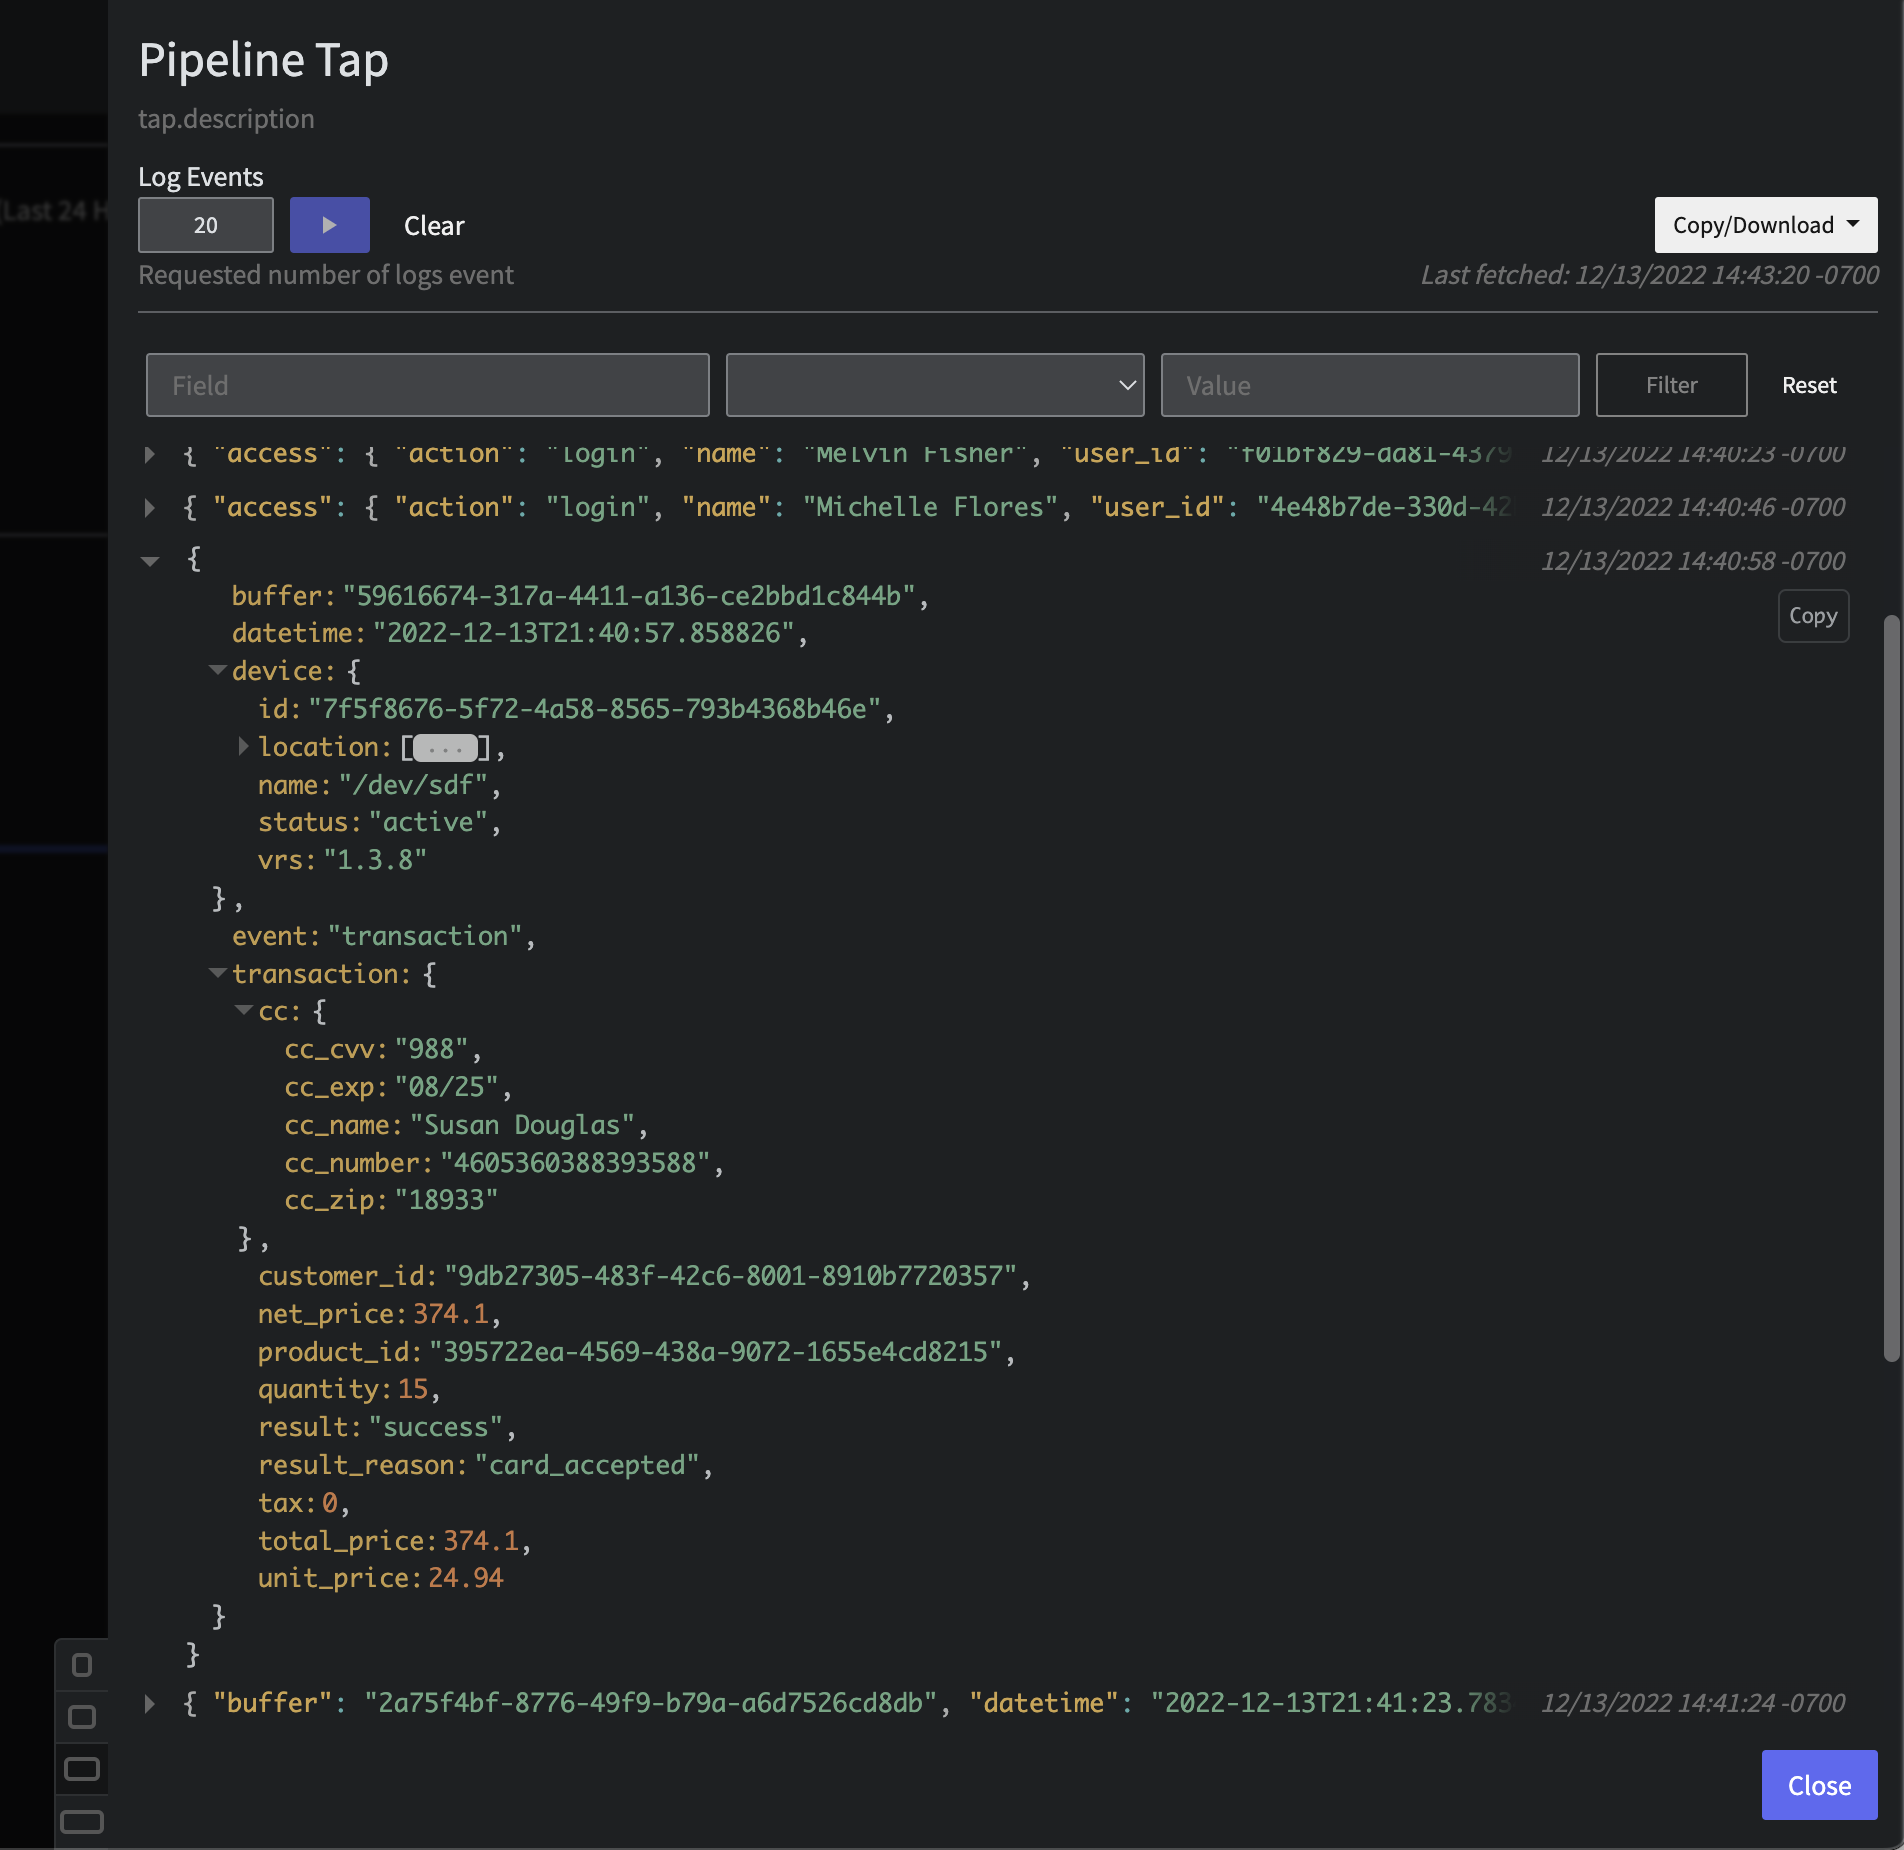
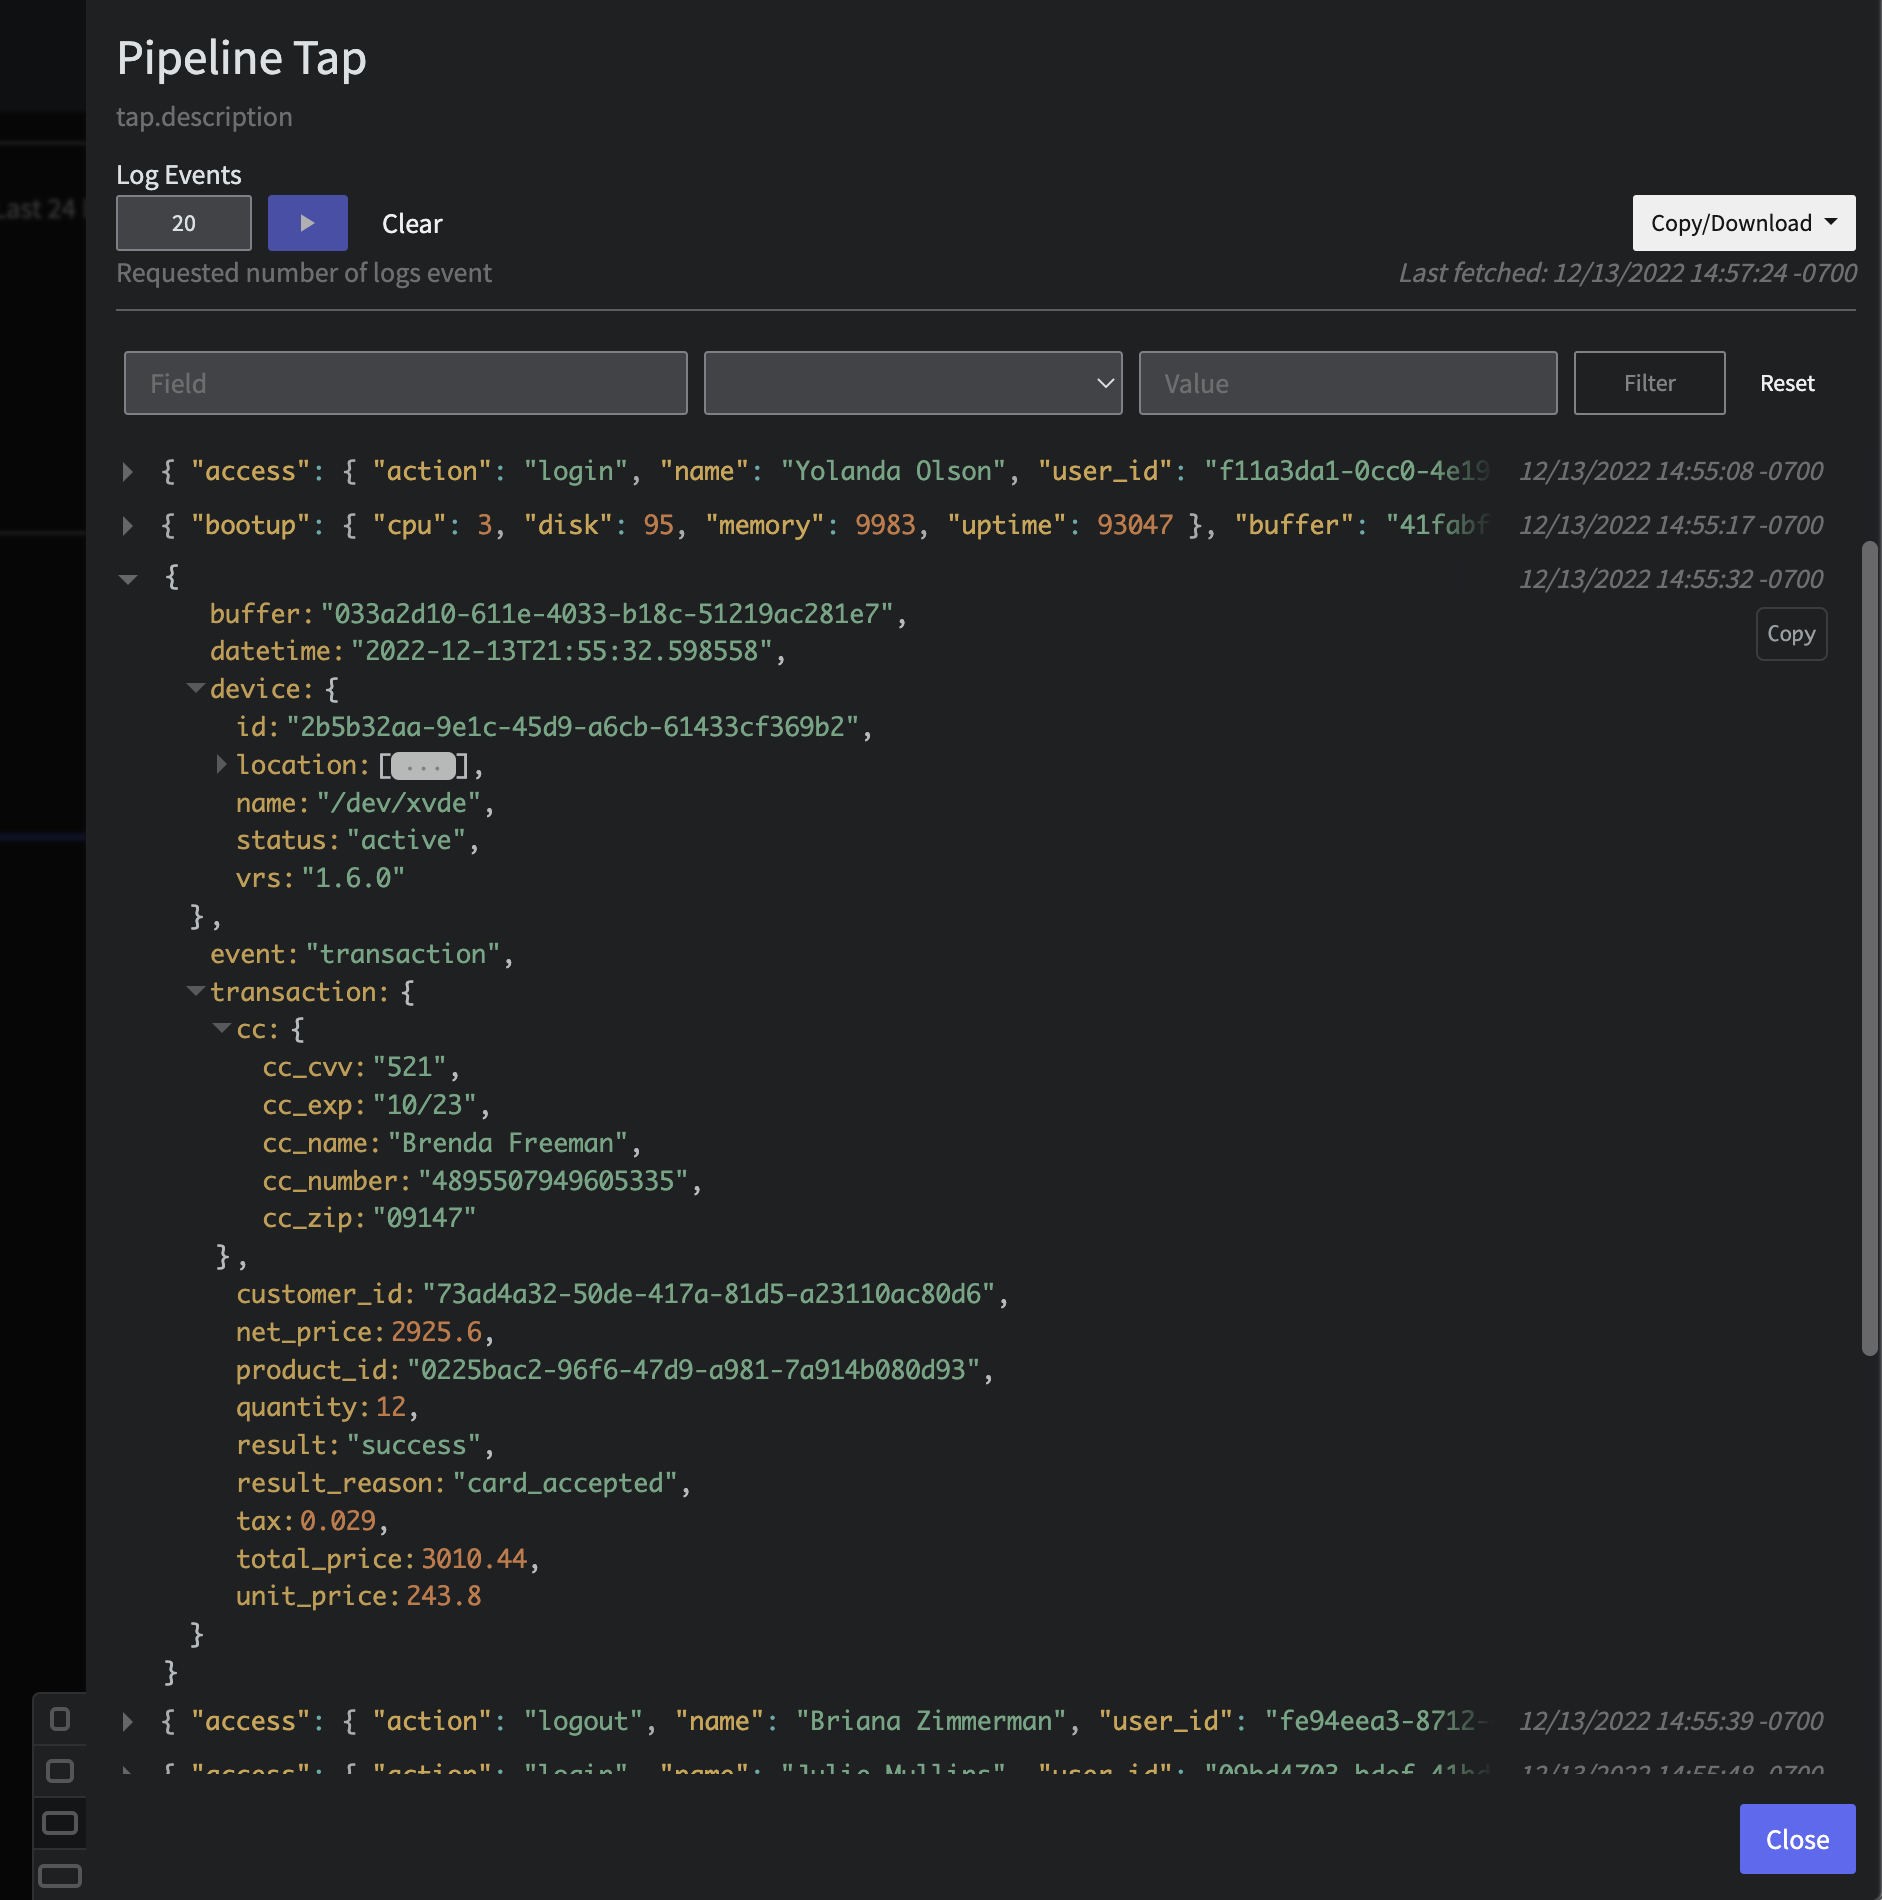
update images

diff --git a/content/en/transaction-to-s3/docs/understand-your-data.md b/content/en/transaction-to-s3/docs/understand-your-data.md
@@ -40,11 +40,11 @@ This will take you to the Pipeline Monitoring view where you can see high level 
 
 Select the edge between the Source and the Destination and click `Insert data tap`.
 
-![Insert Data Tap](../../images/understand-data_insert-data-tap.gif)
+![Insert Data Tap](../../images/understand-data_insert-data-tap.png)
 
-A sidebar will slide out where you can select the number of events to be grabbed.  Leave it at `20` and select the `blue play` button.
+A sidebar will slide out where you can select the number of events to be grabbed.  Leave it at `20` and select the blue `Start Tap` button to the right.
 
-![Tap Play Button](../../images/understand-data_tap-play-button.gif)
+![Tap Play Button](../../images/understand-data_tap-play-button.png)
 
 You should begin to events piling up in the sidebar.  Clicking on any line lets you expand and explore the event's structure.
 
